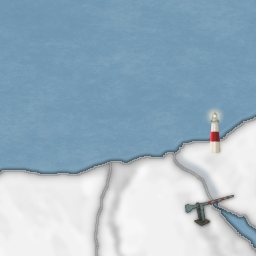
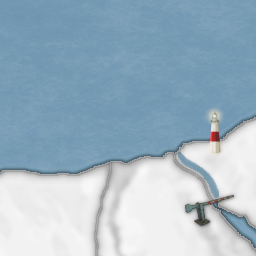
Update to 2.93

Changed region(s): [[0.6875, 0.5938, 0.875, 0.7812]]

diff --git a/map/games/uhd_world_war_ii_global.notes.html b/map/games/uhd_world_war_ii_global.notes.html
@@ -48,6 +48,11 @@ www.axisandallies.org/forums/index.php?topic=30919.0<br>
 <br>
 Change Log UHD:<br>
 <br>
+2.93<br>
+3-3-24<br>
+Add Blue to Canals.
+<br>
+<br>
 2.92<br>
 3-3-24<br>
 Correct Starting German Infantry Total in Germany for Oztea 1941.<br>
